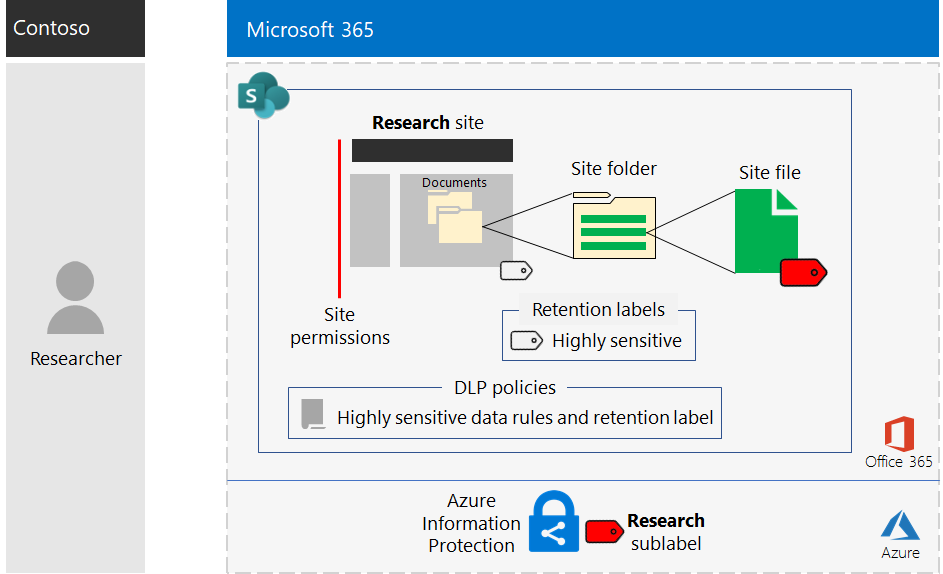
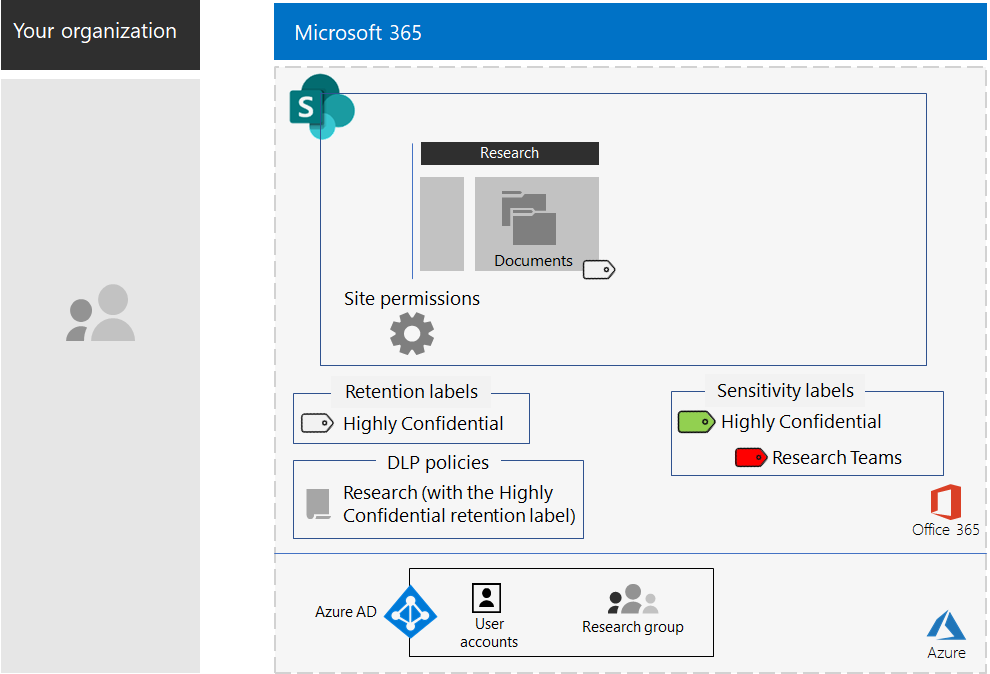
commit translated contents

diff --git a/microsoft-365/enterprise/contoso-sharepoint-online-site-for-highly-confidential-assets.md b/microsoft-365/enterprise/contoso-sharepoint-online-site-for-highly-confidential-assets.md
@@ -1,9 +1,9 @@
 ---
-title: Sito di SharePoint Online per le risorse digitali estremamente riservate di Contoso Corporation
+title: Sito di SharePoint per le risorse digitali estremamente riservate di Contoso Corporation
 ms.author: josephd
 author: JoeDavies-MSFT
 manager: laurawi
-ms.date: 04/15/2019
+ms.date: 10/04/2019
 audience: ITPro
 ms.topic: overview
 ms.service: o365-solutions
@@ -12,109 +12,96 @@ search.appverid:
 - MET150
 ms.collection: M365-security-compliance
 ms.custom: Ent_Architecture
-description: 'Riepilogo: informazioni su come Contoso ha implementato un sito di SharePoint Online per dati altamente regolamentati per semplificare la collaborazione tra i team di ricerca.'
-ms.openlocfilehash: 6c61d02c802a77afeb93a58b59114741c6630f9e
-ms.sourcegitcommit: c6eab4a9f1b70e7ff0db6b2a1128a4db2591cbaf
+description: 'Riepilogo: informazioni sul modo in cui Contoso ha implementato un sito di SharePoint per dati altamente regolamentati per semplificare la collaborazione tra i team di ricerca.'
+ms.openlocfilehash: bb3c178ee64d5925f82aef9887c06ceafe51f4ee
+ms.sourcegitcommit: e1ffb98ac8159d1dc814930fe388d3e37cbdc7e2
 ms.translationtype: MT
 ms.contentlocale: it-IT
-ms.lasthandoff: 10/02/2019
-ms.locfileid: "37369527"
+ms.lasthandoff: 10/05/2019
+ms.locfileid: "37403225"
 ---
-# <a name="sharepoint-online-site-for-highly-confidential-digital-assets-of-the-contoso-corporation"></a>Sito di SharePoint Online per le risorse digitali estremamente riservate di Contoso Corporation
+# <a name="sharepoint-site-for-highly-confidential-digital-assets-of-the-contoso-corporation"></a>Sito di SharePoint per le risorse digitali estremamente riservate di Contoso Corporation
 
- **Riepilogo:** Come Contoso ha implementato un sito di SharePoint Online per dati altamente regolamentati per semplificare la collaborazione tra i propri team di ricerca.
+ **Riepilogo:** Come Contoso ha implementato un sito di SharePoint per dati altamente regolamentati per semplificare la collaborazione tra i propri team di ricerca.
   
-Le risorse più importanti di Contoso sono la proprietà intellettuale in forma di segreti commerciali, come le tecniche di produzione proprietarie e le specifiche di progettazione per i prodotti in sviluppo. Tali risorse sono in formato digitale, archiviate originariamente come file in un sito di SharePoint Server 2016. Quando Contoso ha distribuito Microsoft 365 Enterprise, volevano passare al cloud le risorse digitali locali per semplificare l'accesso e una collaborazione più aperta tra i team di ricerca di Parigi, Mosca, New York, Pechino e Bangalore. 
+Le risorse più importanti di Contoso sono la proprietà intellettuale in forma di segreti commerciali, come le tecniche di produzione proprietarie e le specifiche di progettazione per i prodotti in sviluppo. Tali risorse erano in formato digitale, originariamente memorizzate come file in un sito di SharePoint Server 2016. Quando Contoso ha distribuito Microsoft 365 Enterprise, volevano passare al cloud le risorse digitali locali per semplificare l'accesso e una collaborazione più aperta tra i team di ricerca di Parigi, Mosca, New York, Pechino e Bangalore. 
   
 Tuttavia, a causa della loro natura sensibile, l'accesso a questi file deve essere:
 
-- Limitato all'insieme di utenti autorizzati a visualizzarli o modificarli, con autorizzazioni in uscita per il sito amministrate solo da amministratori di SharePoint. 
-- Protetto con la prevenzione della perdita di dati (DLP) per impedire agli utenti di distribuirli all'esterno del sito.
-- Crittografati e protetti con gli elenchi di controllo di accesso per impedire agli utenti non autorizzati di accedere ai propri contenuti, anche se sono distribuiti all'esterno del sito.
+- Limitato all'insieme di utenti autorizzati ad accedervi. 
+- Protetto con un criterio di prevenzione della perdita di dati (DLP) per impedire agli utenti di distribuirli all'esterno del sito.
+- Crittografati e protetti con autorizzazioni per impedire agli utenti non autorizzati di accedere ai propri contenuti, anche se sono distribuiti all'esterno del sito.
 
-Gli amministratori di sicurezza e di SharePoint nel reparto IT di Contoso hanno deciso di utilizzare un [sito di SharePoint Online per dati altamente regolamentati](teams-sharepoint-online-sites-highly-regulated-data.md).
+Gli amministratori di sicurezza e di SharePoint nel reparto IT di Contoso hanno deciso di utilizzare un [sito di SharePoint per dati altamente regolamentati](teams-sharepoint-online-sites-highly-regulated-data.md).
   
-Contoso ha utilizzato questi passaggi per creare e proteggere i siti del team di SharePoint Online per i propri team di ricerca.
+Contoso ha utilizzato questi passaggi per creare e proteggere i siti del team di SharePoint per i propri team di ricerca.
 
-## <a name="step-1-reviewed-and-verified-the-members-of-research-team-groups"></a>Passaggio 1: Revisione e verifica dei membri dei gruppi del team di ricerca
+## <a name="step-1-created-a-private-sharepoint-team-site"></a>Passaggio 1: creazione di un sito del team di SharePoint privato
 
-Contoso IT Admins ha eseguito una revisione del set di gruppi di sicurezza per i propri team di ricerca. Sono stati rimossi tutti coloro che non erano un ricercatore o che non avevano bisogno di accedere alle risorse di ricerca. 
+Per proteggere l'accesso al sito di SharePoint, Contoso ha configurato i [criteri di accesso di SharePoint consigliati](sharepoint-file-access-policies.md).
 
-Sono stati creati anche questi nuovi gruppi di sicurezza:
+Successivamente, contoso IT Admins ha compilato un elenco degli account utente per i ricercatori negli uffici Parigi, Mosca, New York, Pechino e Bangalore. 
 
-- **Ricerca-amministratori**  Set di amministratori di SharePoint che dispongono del controllo completo sul sito, inclusa la possibilità di modificare le autorizzazioni.
-- **Membri della ricerca**  Set di gruppi di sicurezza per i team di ricerca di tutto il mondo.
-- **Ricerca-visualizzatori**  Il set di utenti di gestione, ad esempio i dirigenti dell'organizzazione di ricerca, che può solo visualizzare le risorse nel sito.
+Successivamente, un amministratore IT di Contoso ha creato un nuovo sito del team privato denominato **Research** e ha aggiunto tutti gli account utente per i suoi ricercatori.
 
-## <a name="step-2-created-an-isolated-sharepoint-online-team-site"></a>Passaggio 2: creazione di un sito del team di SharePoint Online isolato 
+Successivamente, sono state configurate le impostazioni di autorizzazione aggiuntive per il sito per impedire ai ricercatori di condividere l'accesso al sito e impedire ai non ricercatori di richiedere l'accesso al sito.
 
-Contoso SharePoint Admins ha creato per la prima volta un nuovo sito del team denominato **Research**. Sono quindi configurati:
+## <a name="step-2-configured-the-site-for-a-restrictive-dlp-policy"></a>Passaggio 2: configurazione del sito per un criterio DLP restrittivo
 
-- Il livello di autorizzazione controllo completo per l'utilizzo del gruppo di SharePoint proprietari di ricerca, che dispone del gruppo di sicurezza **Research-Admins** come membro
-- Il livello di autorizzazione modifica per l'utilizzo del gruppo di SharePoint membri della ricerca, che ha come membro il gruppo di sicurezza **membri della ricerca** .
-- Il livello di autorizzazione di lettura per l'utilizzo del gruppo di SharePoint visitors Research, che dispone del gruppo di sicurezza dei **visualizzatori di ricerca** come membro
-
-Di seguito sono riportati i livelli di autorizzazione di SharePoint, i gruppi di SharePoint e i relativi membri.
-
-![Livelli di autorizzazione di SharePoint, gruppi di SharePoint e relativi membri](./media/contoso-sharepoint-online-site-for-highly-confidential-assets/spo-permissions.png)
-
-Successivamente, sono state configurate restrizioni aggiuntive per il sito.
-
-Per informazioni dettagliate sulla configurazione, vedere [deploy an isolated SharePoint Online Team Site](https://docs.microsoft.com/office365/enterprise/deploy-an-isolated-sharepoint-online-team-site).
-
-## <a name="step-3-configured-the-site-for-a-restrictive-dlp-policy"></a>Passaggio 3: configurazione del sito per un criterio DLP restrittivo
-
-Per prima cosa, gli amministratori di Contoso hanno applicato l'etichetta di conservazione di Office 365 **estremamente riservata** al sito di **ricerca** .
+Per prima cosa, gli amministratori di Contoso hanno applicato l'etichetta di conservazione di Office 365 **altamente riservata** esistente alla cartella documenti del sito di **ricerca** .
 
 Successivamente, è stato creato un nuovo criterio DLP di Office 365 denominato **Research** :
 
 - Utilizza l'etichetta di conservazione di Office 365 **estremamente riservata** . 
-- Viene applicato al sito di **ricerca** .
 - Blocca gli utenti quando tentano di condividere un asset digitale nel sito di **ricerca** esterno a contoso.
 
-Per informazioni dettagliate sulla configurazione, vedere [proteggere i file di SharePoint Online con etichette di conservazione e DLP](https://docs.microsoft.com/office365/enterprise/protect-sharepoint-online-files-with-office-365-labels-and-dlp).
+Per informazioni dettagliate sulla configurazione, vedere [proteggere i file di SharePoint con etichette di conservazione e DLP](https://docs.microsoft.com/office365/enterprise/protect-sharepoint-online-files-with-office-365-labels-and-dlp).
 
-## <a name="step-4-created-an-azure-information-protection-sub-label-for-the-site"></a>Passaggio 4: creazione di un'etichetta secondaria di Azure Information Protection per il sito
+## <a name="step-4-created-an-office-365-sensitivity-sublabel-for-the-site"></a>Passaggio 4: creazione di una sottoetichetta di riservatezza di Office 365 per il sito
 
-Gli amministratori di Contoso hanno creato una nuova etichetta secondaria di Azure Information Protection denominata **Research** dell'etichetta **altamente riservata** predefinita in un criterio con ambito che:
+Gli amministratori di Contoso hanno creato una nuova sottoetichetta di sensitivity di Office 365 denominata **Research Teams** dell'etichetta **altamente riservata** che:
 
 - Richiede la crittografia.
-- Consente l'accesso completo da parte dei membri del gruppo di sicurezza **membri della ricerca** .
-- Consente l'accesso in lettura ai membri del gruppo di sicurezza **ricerca-visualizzatori** .
+- Consente le autorizzazioni di creazione condivisa per il gruppo **Research** Office 365
+- Si applica al gruppo **Research** Office 365
 
-Successivamente, hanno distribuito il client Azure Information Protection ai dispositivi dei membri del team di ricerca.
+Ecco la configurazione risultante del sito del team di **ricerca** per le risorse estremamente riservate.
 
-Per informazioni dettagliate sulla configurazione, vedere [proteggere i file di SharePoint Online con Azure Information Protection](https://docs.microsoft.com/office365/enterprise/protect-sharepoint-online-files-with-azure-information-protection). 
-
-Ecco la configurazione risultante del sito di **ricerca** per le risorse estremamente riservate.
-
-![La configurazione risultante del sito * * Research * * per le risorse estremamente riservate](./media/contoso-sharepoint-online-site-for-highly-confidential-assets/final-config.png)
+![La configurazione risultante del sito del team di ricerca per le risorse estremamente riservate](./media/contoso-sharepoint-online-site-for-highly-confidential-assets/final-config.png)
 
 I file nelle cartelle del sito di **ricerca** sono protetti da:
 
-- La sottoetichetta **Research** Azure Information Protection, che applica la crittografia e permssions a ogni file che viaggia con il file quando viene spostato o copiato dal sito di **ricerca** .
-- Il criterio DLP di **ricerca** , che utilizza l'etichetta di conservazione **estremamente riservata** e le impostazioni che impediscono la condivisione dei file con gli utenti esterni.
-- Il set di autorizzazioni per i siti, che consentono l'accesso solo ai membri dei gruppi di sicurezza e dell'amministrazione di ricerca-spettatori **e dei** **visualizzatori** dai membri del gruppo di sicurezza **Research-Admins** .
+- Le autorizzazioni per il sito, che consentono l'accesso solo ai membri del gruppo **Research** Office 365.
+- Il criterio DLP di **ricerca** , che utilizza l'etichetta di conservazione e le impostazioni **estremamente riservate** che impediscono la condivisione dei file con gli utenti esterni.
+- La sottoetichetta di sensitivity dei **team di ricerca** , con la crittografia e le autorizzazioni che viaggiano con il file se sono state spostate o copiate dal sito di **ricerca** .
+
+Di seguito è riportato un esempio di un file archiviato nel sito di **ricerca** con la sottoetichetta di riservatezza dei **team di ricerca** assegnati.
+
+![La configurazione risultante del sito del team di ricerca per le risorse estremamente riservate](./media/contoso-sharepoint-online-site-for-highly-confidential-assets/final-config-example-file.png)
+
 
 ## <a name="step-5-migrated-the-on-premises-sharepoint-research-data"></a>Passaggio 5: migrazione dei dati di ricerca di SharePoint locali
 
-Gli amministratori di Contoso hanno spostato tutti i file di ricerca locali nel sito di SharePoint Server 2016 locale in cartelle nel nuovo sito di **ricerca** di SharePoint Online.
+Gli amministratori di Contoso hanno spostato tutti i file di ricerca locali nel sito di SharePoint Server 2016 locale in cartelle nel nuovo sito di SharePoint per la **ricerca** .
 
-## <a name="step-6-trained-their-users"></a>Passaggio 6: formazione dei propri utenti 
+## <a name="step-6-trained-their-researchers"></a>Passaggio 6: formazione dei ricercatori
 
-Il personale di sicurezza di Contoso ha formato i team di ricerca in un corso obbligatorio che ha superato:
+Il personale di sicurezza di Contoso ha formato i membri del gruppo **Research** Office 365 in un corso obbligatorio che ha eseguito i seguenti controlli:
 
-- Informazioni su come accedere al nuovo sito di **ricerca** di SharePoint Online e ai file esistenti.
+- Informazioni su come accedere al nuovo sito di **ricerca** e ai file esistenti.
 - Come creare nuovi file sul sito e caricare nuovi file memorizzati localmente.
-- Dimostrazione del modo in cui il criterio DLP blocca la condivisione esterna dei file.
-- Informazioni su come utilizzare il client Azure Information Protection per etichettare i file di ricerca con l'etichetta secondaria **Research** .
-- Dimostrazione del modo in cui l'etichetta secondaria di **ricerca** protegge un file anche quando viene perso dal sito.
+- Dimostrazione del modo in cui il criterio DLP della **ricerca** blocca i file dalla condivisione esterna.
+- Come assegnare etichette ai file con la sottoetichetta di sensitivity dei **team di ricerca** .
+- Dimostrazione del modo in cui l'etichetta secondaria dei **team di ricerca** protegge un file anche quando viene perso dal sito.
 
-Il risultato finale è un ambiente sicuro in cui i ricercatori possono collaborare all'interno dell'organizzazione in un ambiente sicuro. 
+Il risultato finale è un ambiente sicuro in cui i ricercatori possono collaborare tra Contoso in un ambiente sicuro su file contenenti informazioni sulla ricerca. 
 
-Se un documento di ricerca con l' **etichetta secondaria di ricerca è** fuoriuscito dal sito di **ricerca** , è crittografato e accessibile solo ai membri dei gruppi di sicurezza **membri** della ricerca e ai **visualizzatori** di ricerca con credenziali valide.
+Se un documento di ricerca con la sottoetichetta del **team di ricerca** lascia il sito di **ricerca** , è crittografato e accessibile solo ai membri dei gruppi di **ricerca** di Office 365 con credenziali dell'account utente valide.
 
 ## <a name="next-step"></a>Passaggio successivo
 
 [Distribuzione](deploy-microsoft-365-enterprise.md) Microsoft 365 Enterprise nell'organizzazione.
 
+## <a name="see-also"></a>Vedere anche
+
+[Raccolta di produttività Microsoft 365](https://aka.ms/productivitylibrary) (https://aka.ms/productivitylibrary)

diff --git a/microsoft-365/security/office-365-security/whats-new-in-office-365-atp.md b/microsoft-365/security/office-365-security/whats-new-in-office-365-atp.md
@@ -1,0 +1,68 @@
+---
+title: Novità di Office 365 Advanced Threat Protection
+description: Vengono elencate le nuove caratteristiche e funzionalità di Office 365 ATP
+keywords: Novità di Office 365 ATP, GA, generalmente disponibili, funzionalità, disponibili, nuovo
+search.appverid: met150
+ms.service: O365-seccomp
+ms.sitesec: library
+ms.pagetype: security
+ms.author: deniseb
+author: denisebmsft
+localization_priority: Normal
+manager: dansimp
+audience: ITPro
+ms.collection: M365-security-compliance
+ms.topic: conceptual
+ms.openlocfilehash: 13267597bb29708fcf477a79168e6873a7ccdd90
+ms.sourcegitcommit: b8dd1cb1da936f2b7c9ed621bce6ef5b3588427c
+ms.translationtype: MT
+ms.contentlocale: it-IT
+ms.lasthandoff: 10/04/2019
+ms.locfileid: "37400342"
+---
+# <a name="whats-new-in-office-365-atp"></a>Novità di Office 365 ATP
+
+**Si applica a:**
+
+- [Office 365 Advanced Threat Protection (Office 365 ATP)](office-365-atp.md)
+
+Le funzionalità seguenti sono ora generalmente disponibili (GA) nell'ultima versione di Office 365 ATP. 
+
+>Non si dispone ancora di Office 365 ATP? [Contattare Sales per avviare una versione di valutazione](https://go.microsoft.com/fwlink/p/?LinkId=518644). 
+
+## <a name="office-365-atp-plan-1-and-plan-2"></a>Office 365 ATP - Piano 1 e Piano 2
+
+Office 365 ATP è disponibile in due piani: Office 365 ATP piano 1 e Office 365 ATP piano 2. Nella tabella seguente sono riepilogate le informazioni incluse in ogni piano. 
+
+|Office 365 ATP piano 1  |Office 365 ATP piano 2  |
+|---------|---------|
+|Funzionalità di configurazione, protezione e rilevamento:<br/>- [Allegati sicuri](atp-safe-attachments.md)<br/>- [Collegamenti sicuri](atp-safe-links.md)<br/>- [ATP per SharePoint, OneDrive e Microsoft Teams](atp-for-spo-odb-and-teams.md)<br/>- [Protezione avanzata antiphishing](atp-anti-phishing.md)<br/>- [Rilevamenti in tempo reale](threat-explorer.md)     |Funzionalità di Office 365 ATP Plan 1<br/>---più---<br/>Funzionalità di automazione, analisi, correzione e formazione:<br/>- [Inseguimenti di minacce](threat-trackers.md)<br/>- [Esplora minacce](threat-explorer.md)<br/>- [Risposta agli incidenti automatici](automated-investigation-response-office.md)<br/>- [Simulatore di attacco](attack-simulator.md)         |
+
+Office 365 ATP Plan 2 è incluso in Office 365 Enterprise E5, Office 365 Education a5 e Microsoft 365 Enterprise E5. Office 365 ATP Plan 1 è incluso in Microsoft 365 business. Se l'abbonamento corrente non include Office 365 ATP, [contattare Sales per avviare una versione di valutazione](https://go.microsoft.com/fwlink/p/?LinkId=518644)e vedere in che modo ATP può funzionare per la propria organizzazione. 
+
+## <a name="september-2019"></a>Settembre 2019
+
+- [Sfruttare la risposta degli incidenti automatici (Air) in office 365](automated-investigation-response-office.md) (Office 365 ATP piano 2)
+
+- [Integrazione con office 365 ATP Air Events Using the office 365 Management Activity API](https://docs.microsoft.com/office/office-365-management-api/office-365-management-activity-api-schema#office-365-advanced-threat-protection-and-threat-investigation-and-response-schema) (Office 365 ATP Plan 2)
+
+- [Visualizzare le intestazioni di posta elettronica e scaricare il corpo del messaggio di posta elettronica](investigate-malicious-email-that-was-delivered.md#view-the-email-headers-and-download-the-email-body) (Office 365 ATP piano 1 o piano 2)
+
+## <a name="august-2019"></a>2019 agosto
+
+- [Visualizzare la cronologia della posta elettronica](investigate-malicious-email-that-was-delivered.md#view-the-timeline-of-your-email) (Office 365 ATP piano 1 o piano 2)
+
+## <a name="july-2019"></a>2019 luglio
+
+- [Controllare l'azione di recapito e la posizione dei messaggi di posta elettronica](investigate-malicious-email-that-was-delivered.md#check-the-delivery-action-and-location) (Office 365 ATP piano 1 o 2)
+
+ ## <a name="june-2019"></a>2019 giugno
+
+- [Visualizzare i dati relativi agli URL di phishing e fare clic su Verdet](threat-explorer.md#view-data-about-phishing-urls-and-click-verdict) (Office 365 ATP piano 1 o piano 2)
+
+
+## <a name="see-also"></a>Vedere anche
+
+[Roadmap di Microsoft 365](https://www.microsoft.com/microsoft-365/roadmap)
+
+[Descrizione del servizio ATP di Office 365](https://docs.microsoft.com/office365/servicedescriptions/office-365-advanced-threat-protection-service-description)
